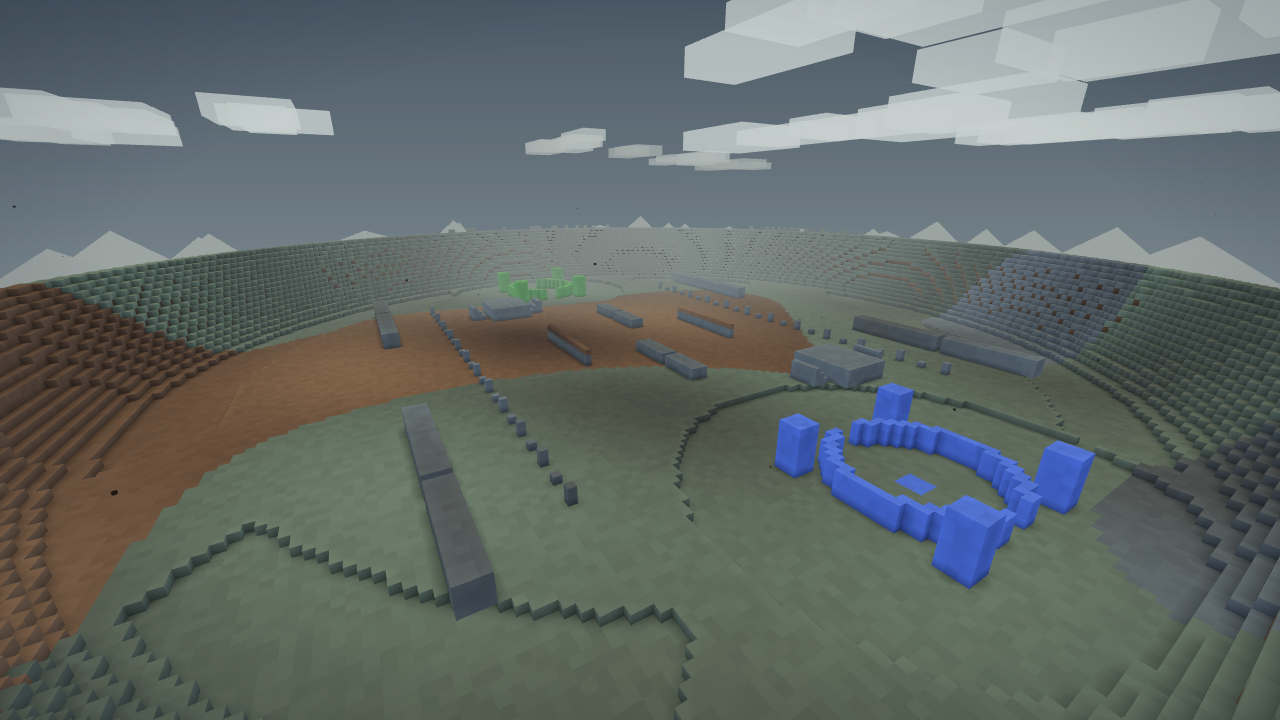
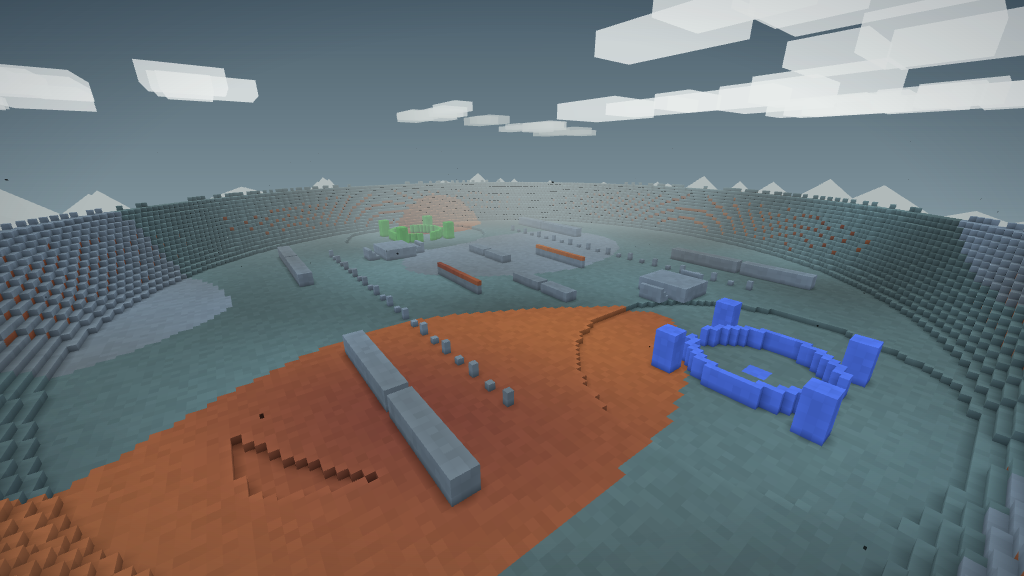
fix: separate arena visual identities

diff --git a/src/mapgen.js b/src/mapgen.js
@@ -92,14 +92,18 @@ export const MAPS = [
       { x: SX / 2, z: SZ / 2 - 28, r: 10, label: 'NORTH BOWL' },
       { x: SX / 2, z: SZ / 2 + 28, r: 10, label: 'SOUTH BOWL' },
     ],
-    atmosphere: { sky: ['#40334f', '#76556a', '#c38a73'], fog: 0xa47770, cloud: 0xc7b1ae, water: 0x595866,
-      sun: [-0.6, 0.72, 0.28], sunTint: [1.14, 0.98, 0.78] },
-    paletteOverrides: { grass: 0x74654d, dirt: 0x7b5047, sand: 0xb58568, stone: 0x4e4b52, moss: 0x53594c } },
+    // Bright volcanic daylight rather than purple twilight: the bowl walls
+    // and soldiers must stay readable from its low central objective.
+    atmosphere: { sky: ['#755b73', '#b98278', '#f0bd8d'], fog: 0xc49a88, cloud: 0xead2c4, water: 0x657080,
+      sun: [-0.6, 0.78, 0.28], sunTint: [1.16, 1.07, 0.94] },
+    paletteOverrides: { grass: 0x8b785f, dirt: 0x9b604f, sand: 0xd09a71, stone: 0x776d73, moss: 0x6c755f } },
   { key: 'foundry', name: 'FOUNDRY',   modes: ['tdm'],               gen: null,
     envelope: { minX: 32, maxX: 224, minZ: 32, maxZ: 224, shape: 'ellipse', kind: 'rim' },
-    atmosphere: { sky: ['#4b5966', '#89969b', '#d7c8ae'], fog: 0x9ca4a2, cloud: 0xc7d0ce, water: 0x3e5960,
-      sun: [-0.35, 0.82, 0.18], sunTint: [1.08, 0.98, 0.84] },
-    paletteOverrides: { grass: 0x58655d, dirt: 0x624e42, sand: 0x9c8060, stone: 0x58636a, moss: 0x3f514b } },
+    // Cool steel, pale overcast, and rust make the industrial TDM floor read
+    // nothing like Faultline's sun-baked rock while keeping cover high-value.
+    atmosphere: { sky: ['#4c606d', '#96aab1', '#e1ddd4'], fog: 0xb0b9b9, cloud: 0xe8eceb, water: 0x3b6671,
+      sun: [-0.35, 0.88, 0.18], sunTint: [1.02, 1.04, 1.06] },
+    paletteOverrides: { grass: 0x52686a, dirt: 0x8b513a, sand: 0xbc784a, stone: 0x687781, moss: 0x41645e } },
   { key: 'faultline', name: 'FAULTLINE', modes: ['koth'],            gen: null,
     envelope: { minX: 32, maxX: 224, minZ: 32, maxZ: 224, shape: 'ellipse', kind: 'rim' },
     hills: [
@@ -108,9 +112,11 @@ export const MAPS = [
       { x: SX / 2, z: SZ / 2 + 32, r: 8, label: 'SOUTH' },
       { x: SX / 2 + 32, z: SZ / 2, r: 8, label: 'EAST' },
     ],
-    atmosphere: { sky: ['#3f5864', '#7da0a4', '#d8c2a0'], fog: 0x9aada8, cloud: 0xd3ddda, water: 0x315f69,
-      sun: [0.25, 0.88, -0.42], sunTint: [1.04, 1.02, 0.88] },
-    paletteOverrides: { grass: 0x596c68, dirt: 0x70534a, sand: 0xb38a61, stone: 0x566168, moss: 0x3d554b } },
+    // A warm, high-desert geological identity: sandstone ground, sage seams,
+    // and a clear cyan sky separate the rotating KOTH loop from Foundry.
+    atmosphere: { sky: ['#5895ad', '#a6c9c5', '#efd5a5'], fog: 0xcdbda4, cloud: 0xf4ead8, water: 0x397684,
+      sun: [0.25, 0.92, -0.42], sunTint: [1.12, 1.05, 0.91] },
+    paletteOverrides: { grass: 0x7d8a6d, dirt: 0x9d6049, sand: 0xd6a464, stone: 0x806b5d, moss: 0x5f755b } },
 ];
 
 // The voxel world remains 256×256; an envelope is the authored combat space
@@ -1365,7 +1371,10 @@ function genFaultline(world, seed) {
   applyArenaRim(height, mapEnvelope(7), FLOOR, SEA + 25);
   fillColumns(world, height, (x, z) => {
     const band = noise(x * 0.02 + 31, z * 0.02 + 5);
-    return band > 0.7 ? BLOCK.STONE : band < 0.3 ? BLOCK.DIRT : BLOCK.GRASS;
+    // Sandstone dominates the arena floor. Sage and red-earth seams still
+    // expose its large-scale strata, but the material read is geological,
+    // not the green-grey factory floor used by Foundry.
+    return band > 0.72 ? BLOCK.STONE : band < 0.3 ? BLOCK.DIRT : BLOCK.SAND;
   });
 
   // A solid, low survey foundation breaks the four cross-map sniper lanes.
